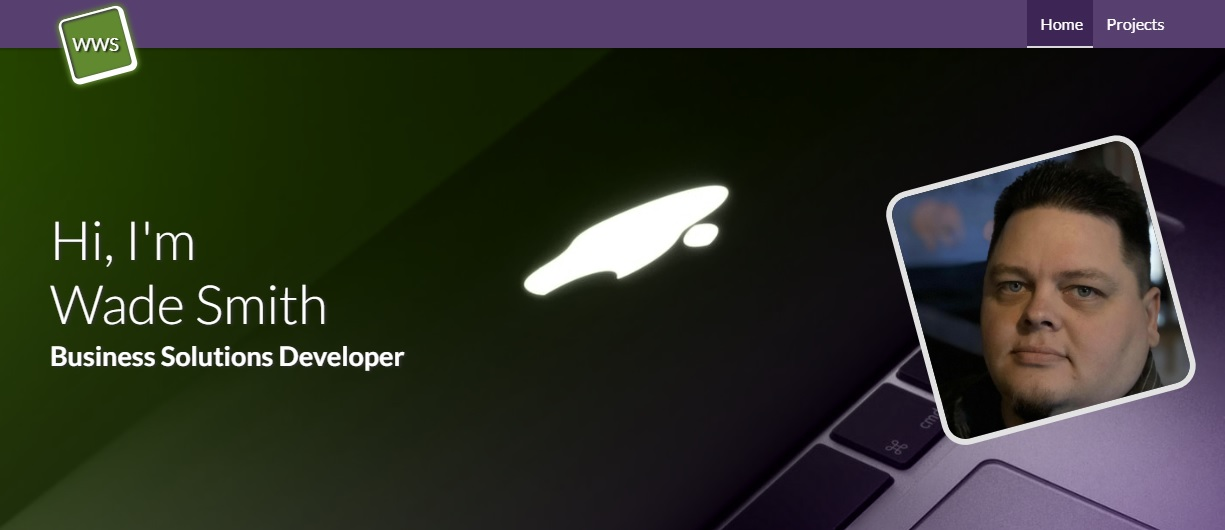
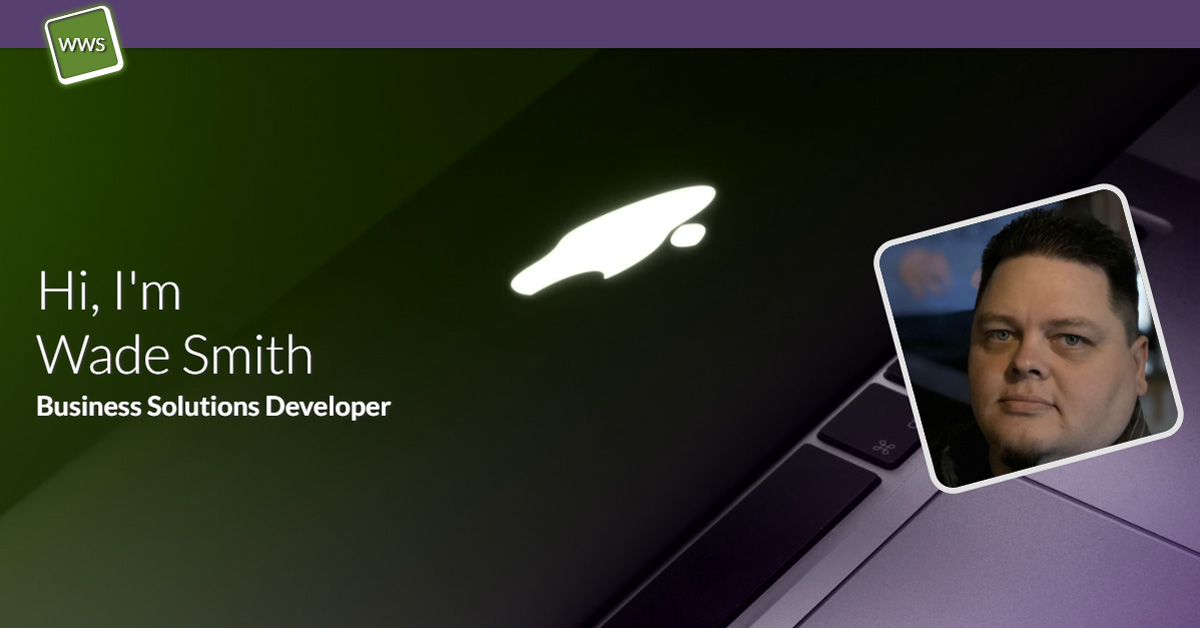
img size

diff --git a/projects.html b/projects.html
@@ -28,7 +28,10 @@
   <meta property="og:url" content="https://wade-wws.github.io/projects.html" />
   <meta property="og:title"  content="Wade Smith - Business Solutions Developer" />
   <meta property="og:description" content="Creative solutions to your most difficult problems." />
-  <meta property="og:image" content="https://wade-wws.github.io/images/HomeScreen_OG.jpg" />
+  <meta property="og:image" content="https://wade-wws.github.io/images/HomeScreen_OG.jpg" /> 
+  <!-- 1.91:1
+  1200x627
+  1200x628 -->
 
   <script>
     $(document).ready(function() {
